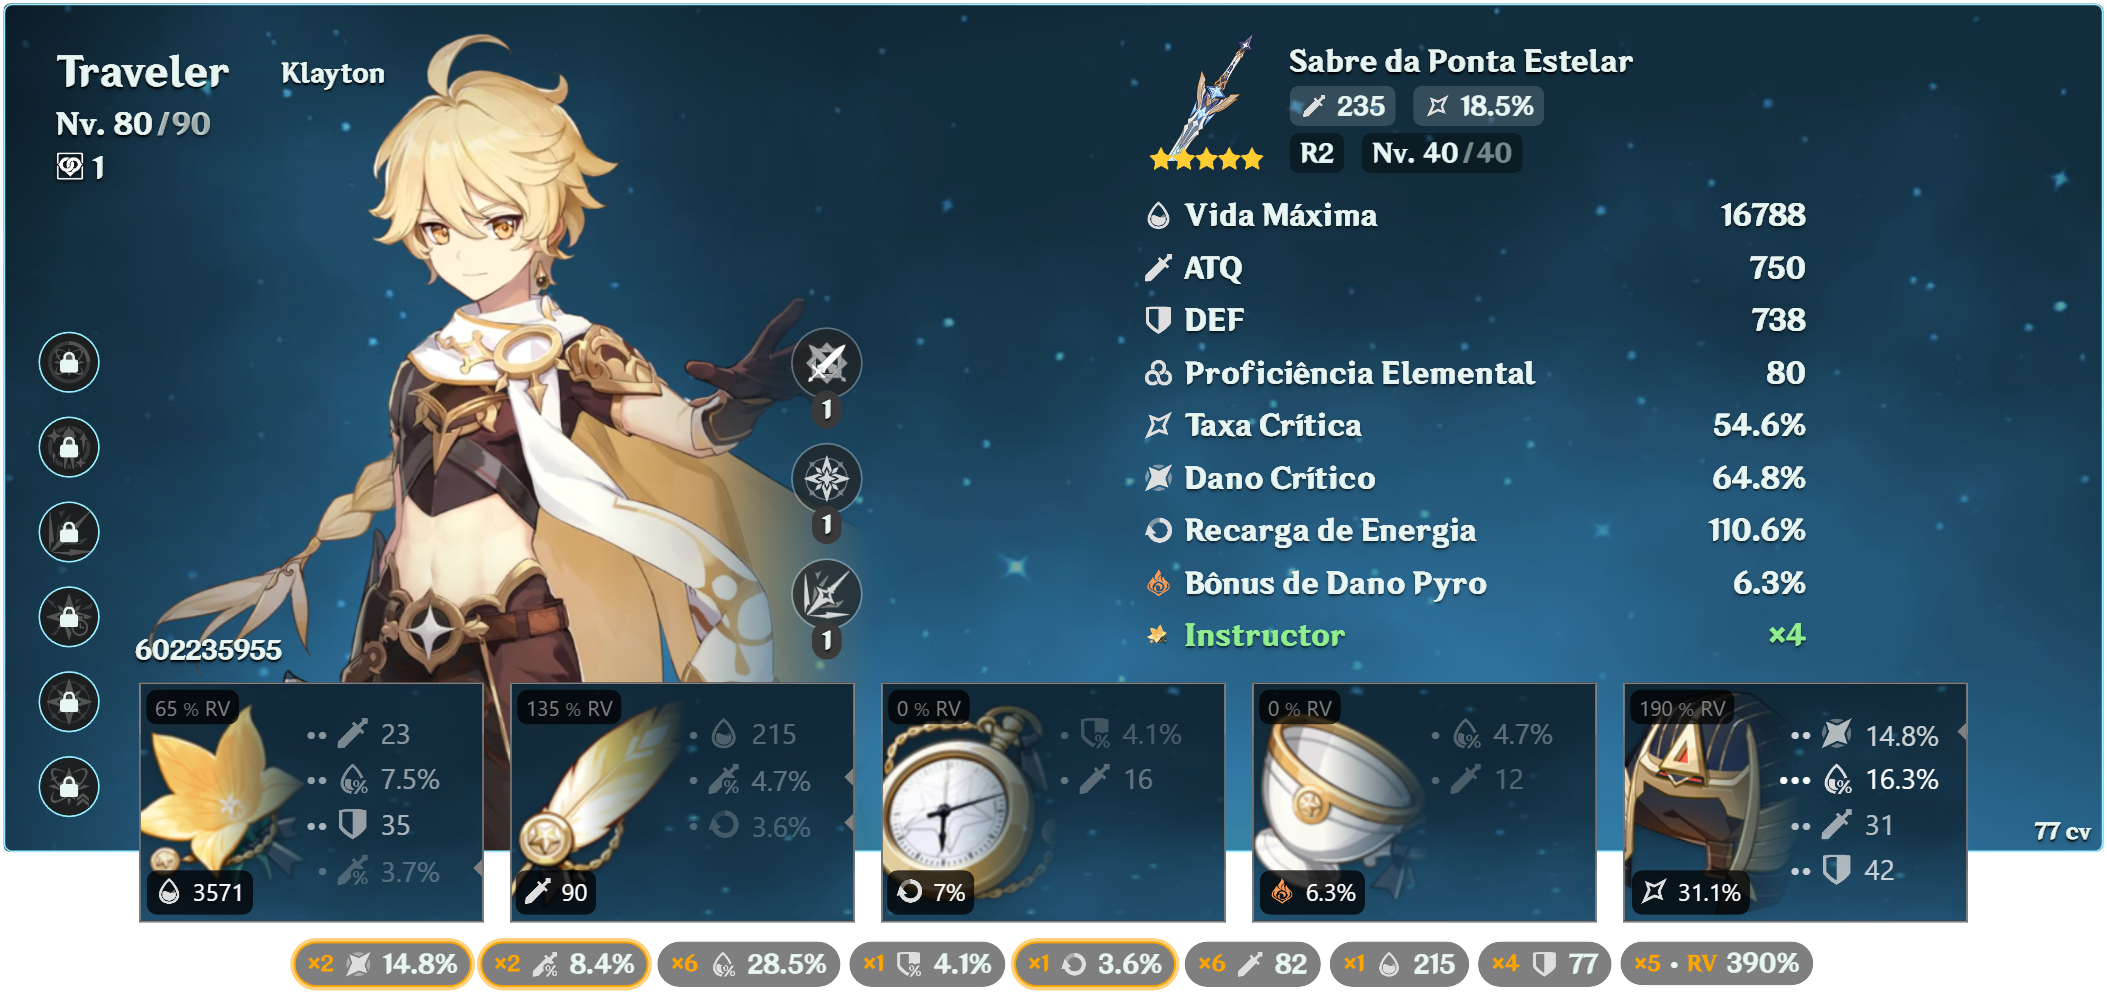
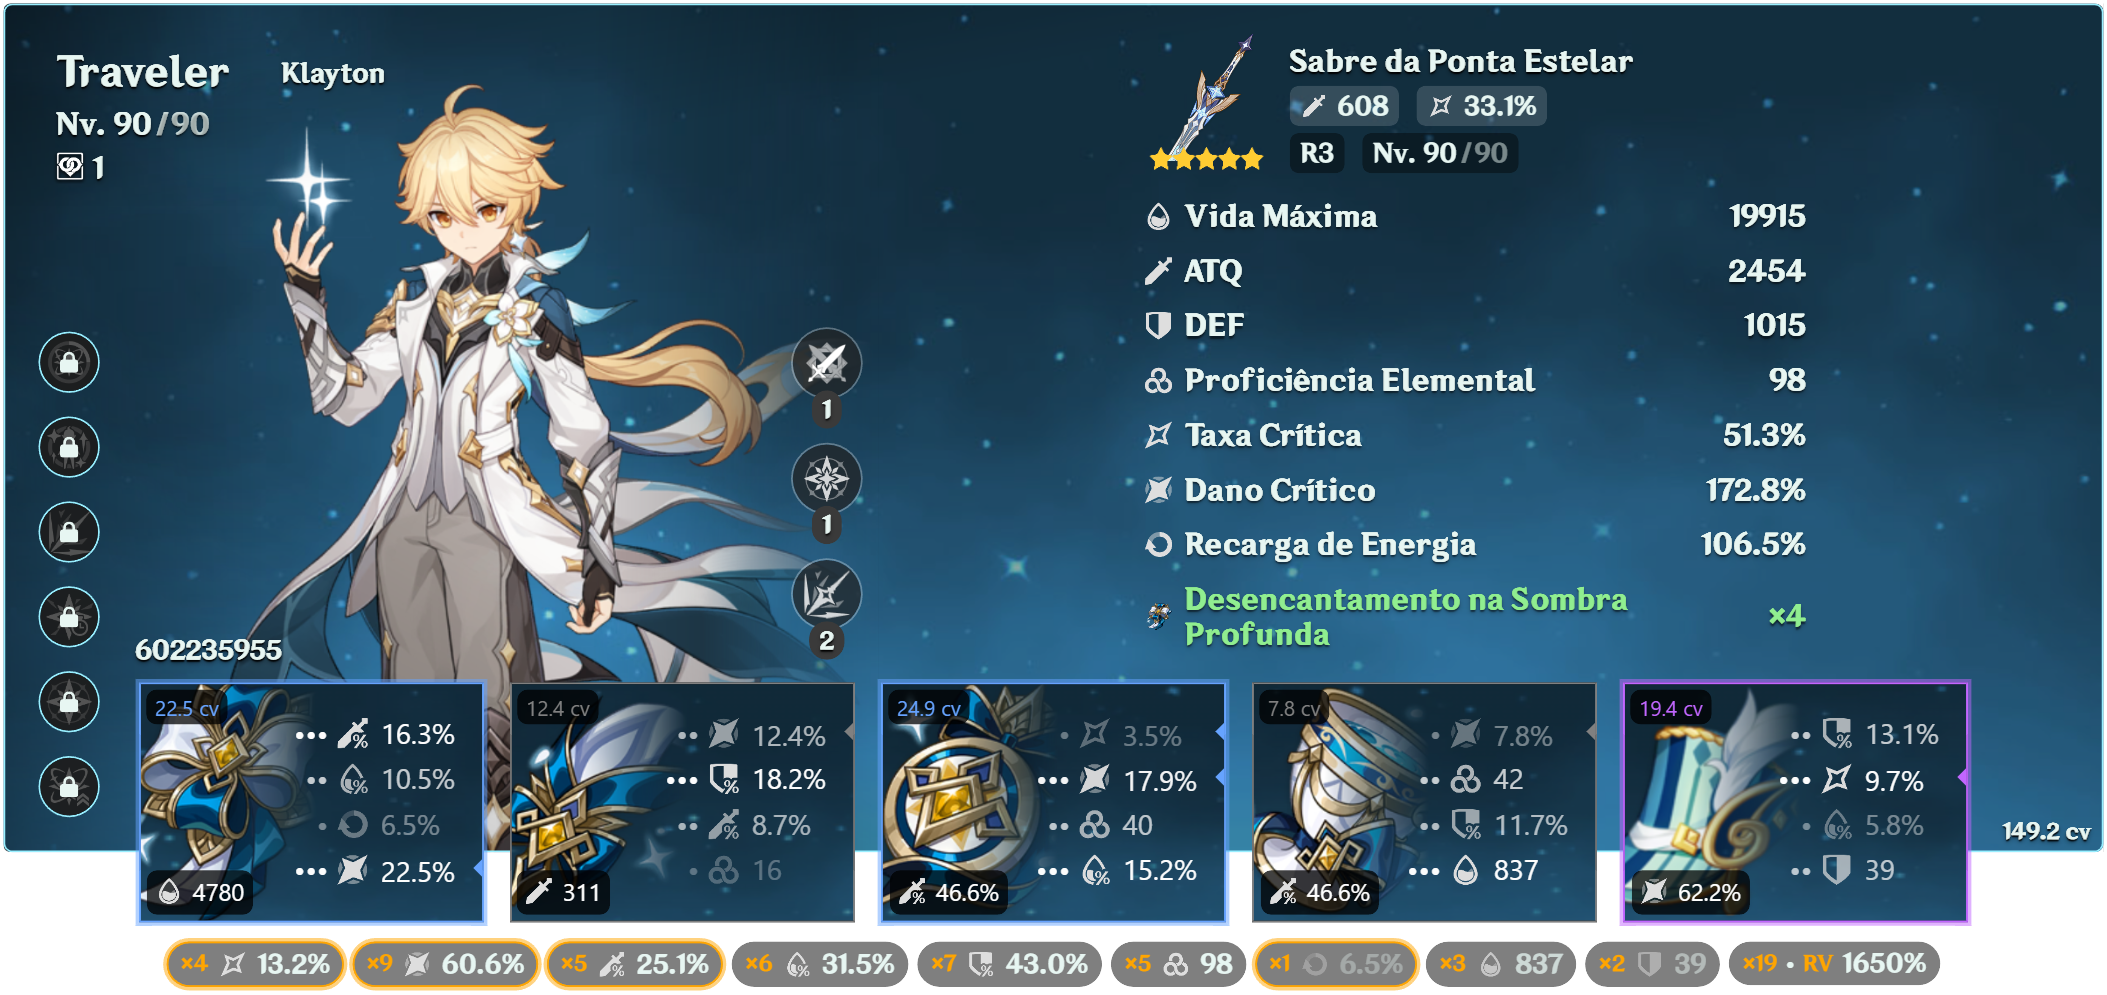
Adicionando build inicial viajanteCryo

diff --git a/data/builds.js b/data/builds.js
@@ -4925,7 +4925,7 @@ window.BUILD_IMAGE_EXTRACTS = {
   raiden: { character: { level: 90 }, stats: { "Vida Máxima": 21344, ATQ: 1796, "Taxa Crítica": 66.0, "Dano Crítico": 126.9, "Recarga de Energia": 275.8, "Bônus de Dano Electro": 22.5 } },
   ganyu: { character: { level: 90 }, stats: { "Vida Máxima": 15776, ATQ: 2172, DEF: 916, "Proficiência Elemental": 19, "Taxa Crítica": 16.3, "Dano Crítico": 202.7, "Recarga de Energia": 141.5, "Bônus de Dano Cryo": 61.6 } },
   charlotte: { buildAvailable: true, character: { level: 50 }, weapon: { name: "Thrilling Tales of Dragon Slayers", level: 80, refinement: 5, rarity: 3 }, stats: { "Vida Máxima": 9360, ATQ: 639, DEF: 359, "Proficiência Elemental": 19, "Taxa Crítica": 10.8, "Dano Crítico": 50.0, "Recarga de Energia": 100.0 }, artifactSets: [{ name: "Marechaussee Hunter", count: 2 }] },
-  travelerCryo: { buildAvailable: true, character: { level: 80 }, weapon: { name: "Sabre da Ponta Estelar", level: 40, refinement: 2 }, stats: { "Vida Máxima": 16788, ATQ: 750, DEF: 738, "Proficiência Elemental": 80, "Taxa Crítica": 54.6, "Dano Crítico": 64.8, "Recarga de Energia": 110.6, "Bônus de Dano Pyro": 6.3 }, artifactSets: [{ name: "Instructor", count: 2 }] },
+  travelerCryo: { buildAvailable: true, character: { level: 90 }, weapon: { name: "Sabre da Ponta Estelar", level: 90, refinement: 3, rarity: 4 }, stats: { "Vida Máxima": 19915, ATQ: 2454, DEF: 1015, "Proficiência Elemental": 98, "Taxa Crítica": 51.3, "Dano Crítico": 172.8, "Recarga de Energia": 106.5 }, artifactSets: [{ name: "Desencantamento na Sombra Profunda", count: 4 }] },
   diona: { character: { level: 90 }, weapon: { refinement: 3 }, stats: { "Vida Máxima": 24046, ATQ: 1723, DEF: 742, "Proficiência Elemental": 65, "Taxa Crítica": 19.4, "Dano Crítico": 88.1, "Recarga de Energia": 174.7, "Bônus de Dano Cryo": 24.0 } },
   kuki: { buildAvailable: true, character: { level: 90 }, weapon: { name: "Iron Sting", level: 90, refinement: 1, rarity: 4 }, stats: { "Vida Máxima": 22103, ATQ: 1136, DEF: 1121, "Proficiência Elemental": 889, "Taxa Crítica": 17.1, "Dano Crítico": 74.1, "Recarga de Energia": 130.4 }, artifactSets: [{ name: "Flower of Paradise Lost", count: 4 }] },
   xingqiu: { character: { level: 90 }, stats: { "Vida Máxima": 18399, ATQ: 1492, DEF: 933, "Proficiência Elemental": 96, "Taxa Crítica": 72.7, "Dano Crítico": 100.5, "Recarga de Energia": 197.4, "Bônus de Dano Hydro": 66.6 } },
@@ -4967,7 +4967,7 @@ var reviewedBuildValues = {
   raiden: { talents: { normal: 1, skill: 10, burst: 10 }, stats: { DEF: 877, "Proficiência Elemental": 40, "Bônus de Dano Electro": 116.9 }, metrics: { cv: 199.0 } },
   ganyu: { talents: { normal: 9, skill: 6, burst: 10 }, metrics: { cv: 136.8 } },
   charlotte: { character: { constellation: 6 }, talents: { normal: 1, skill: 4, burst: 4 }, metrics: { cv: 11.7 } },
-  travelerCryo: { character: { constellation: 0 }, talents: { normal: 1, skill: 1, burst: 1 }, artifactSets: [{ name: "Instructor", count: 4 }], metrics: { cv: 14.8 } },
+  travelerCryo: { character: { level: 90, constellation: 0 }, talents: { normal: 1, skill: 1, burst: 2 }, metrics: { cv: 149.2 } },
   diona: { talents: { normal: 1, skill: 12, burst: 12 }, metrics: { cv: 66.9 } },
   alyosha: { character: { constellation: 2 }, talents: { normal: 1, skill: 1, burst: 1 }, stats: { ATQ: 97, DEF: 195 } },
   alhaitham: { talents: { normal: 9, skill: 10, burst: 9 }, metrics: { cv: 183.5 } },
